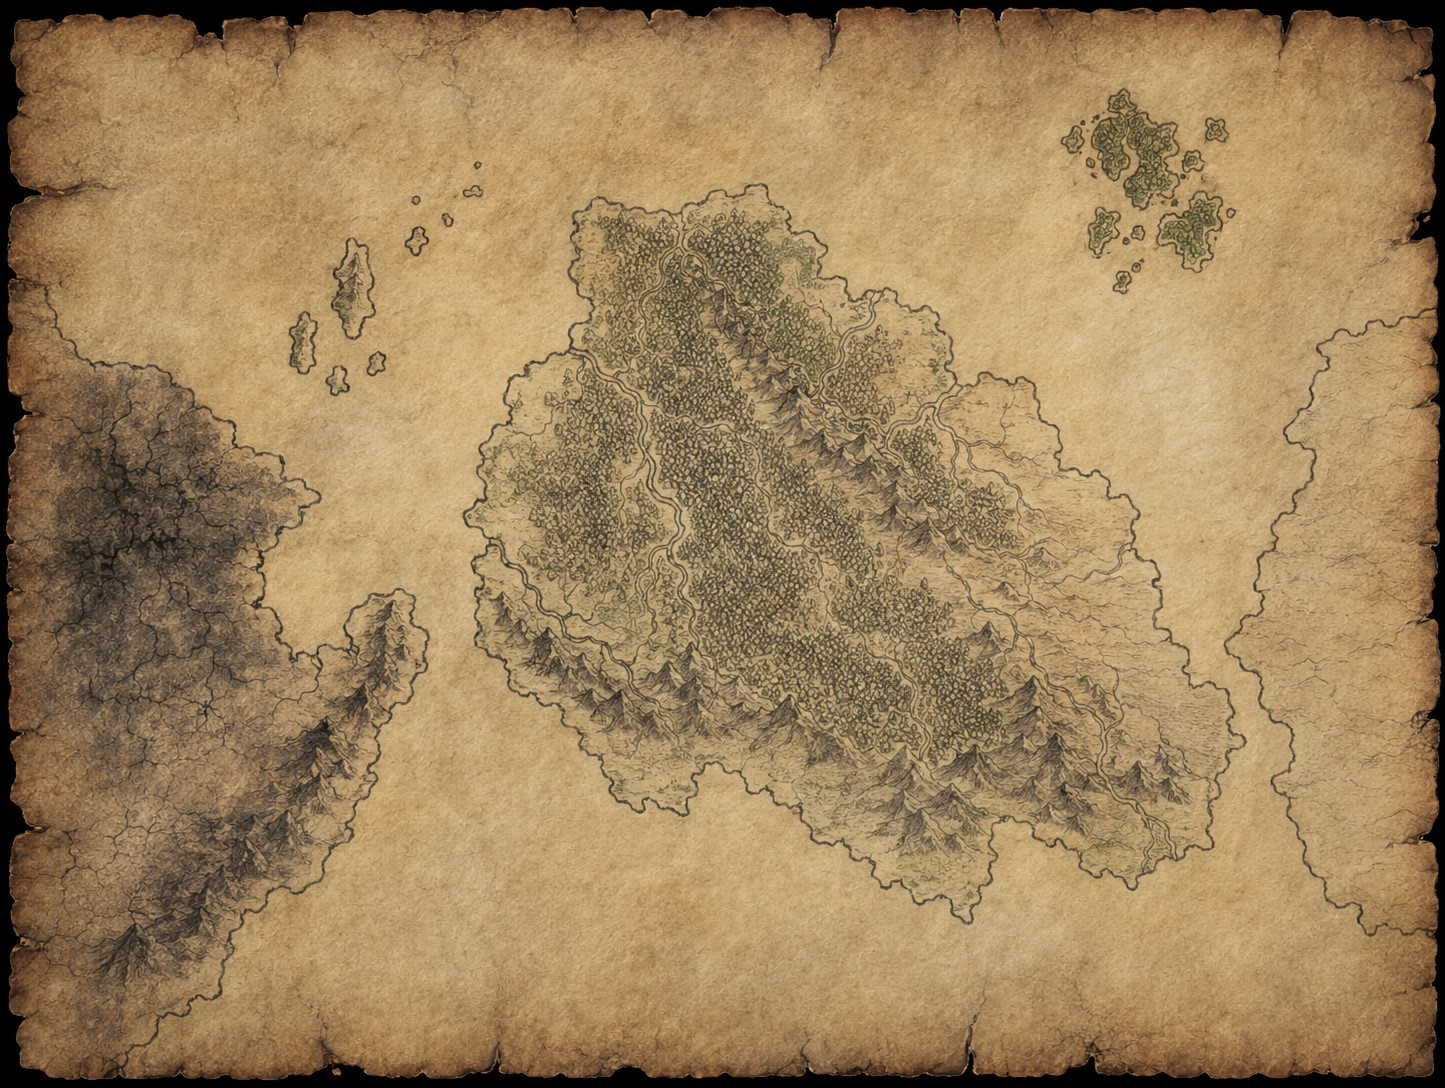
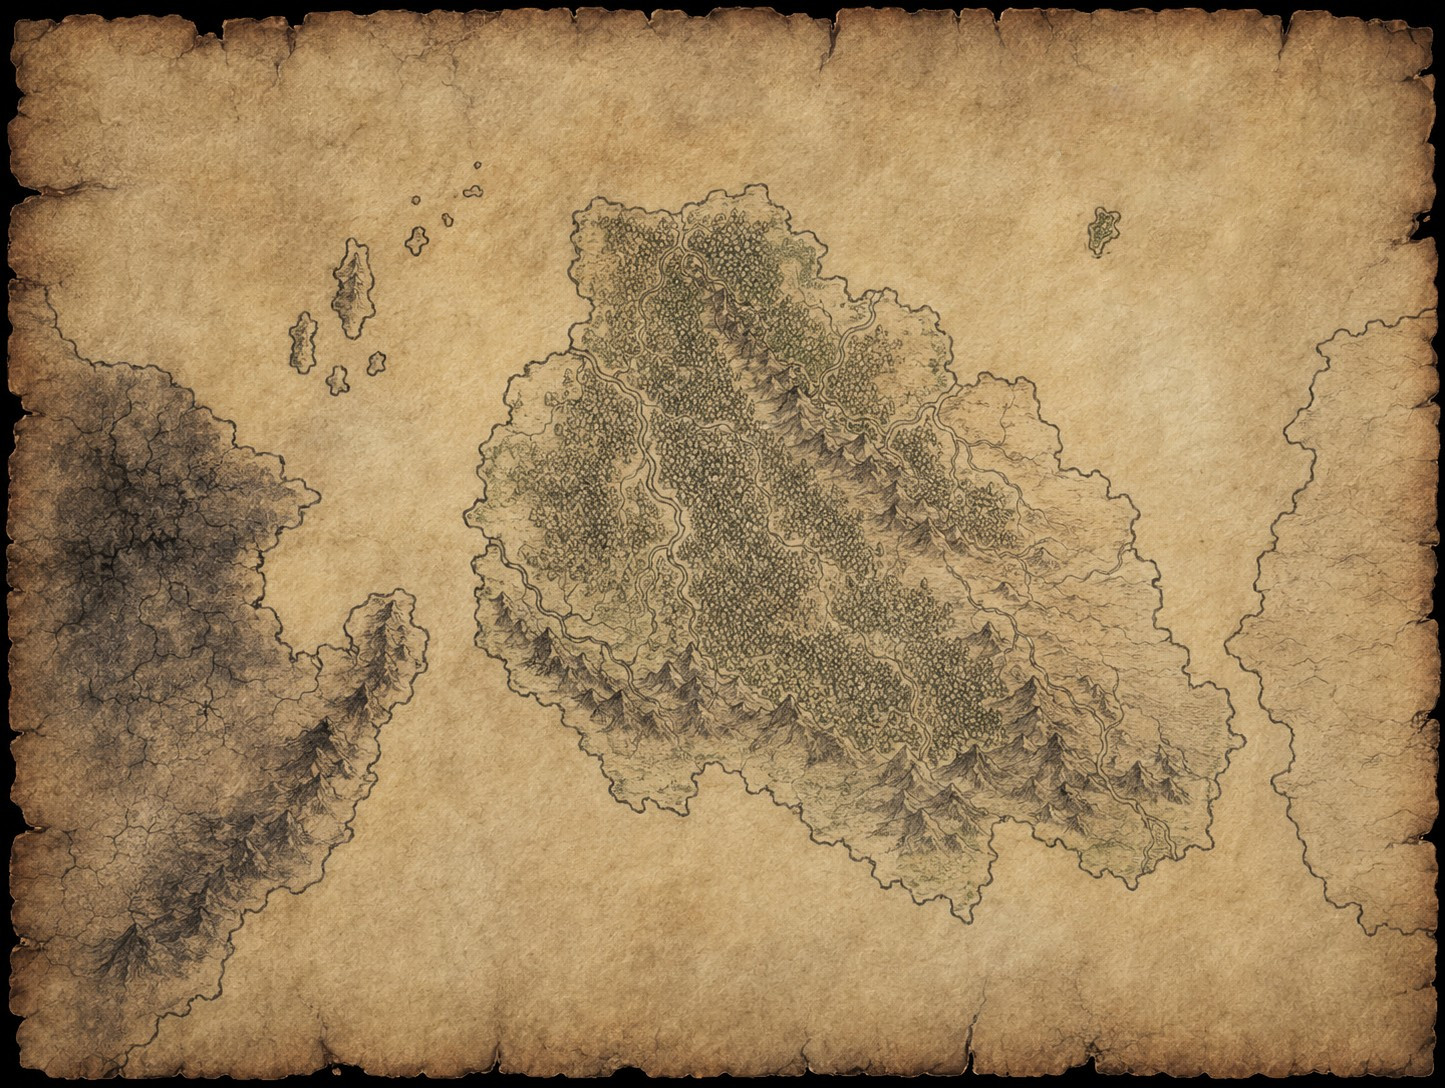
Add lore files for Koten world: introduction and races descriptions
- Created 'koten.md' to introduce the world of Koten, detailing its geography, languages, and mysteries.
- Created 'razas.md' to describe the various intelligent races inhabiting Koten, including their cultures, lifespans, and societal structures.

Changed region(s): [[0.7163, 0.0625, 0.872, 0.25], [0.7474, 0.25, 0.7785, 0.2812]]

diff --git a/lore/razas.md b/lore/razas.md
@@ -1,0 +1,167 @@
+# Los habitantes de Koten
+
+razas.jpg
+
+Son muchas y muy variadas las formas de vida que habitan este mundo, entre las razas inteligentes encontramos tambien una gran diversidad, no solo en su forma fisica, si no en su cultura y vision del mundo.
+
+## Ujom
+
+Esta raza que recibe diversos nombres en diversas lenguas es sin lugar a dudas la mas extendida y abundante del mundo.
+
+Viven en promedio /50 ani/ a los /10 ani/ alcanzan la mayoria de edad y a los /35 ani/ comienza su declive hacia la vejez.
+
+No son especialmente fuertes pero se caracterizan por su capacidad de adaptarse y sociabilidad, se han ganado un lugar dentro de las sociedades de todas las demas razas, mezclandose con sus culturas.
+
+Presentan una gran diversidad fisica con muchos colores de piel, cabello y ojos, suelen medir entre /9 mash/ y /11 mash/
+
+Se desempeñan muy bien en casi cualquier profesion pero destacan especialmente como cazadores, campesinos, pastores, escribas y en todas las formas de arte. tienen una gran capacidad de aprender y disposicion para el trabajo.
+
+Hay un pequeño grupo de radicales que intentan crear una cultura /ujóm/ unificada bajo la premisa de que ellos son los mas antiguos habitantes del mundo y tienen derecho a gobernarlo.
+
+## Perim
+
+Casi tan abundantes como los /ujóm/, los /perím/ suelen habitar cerca de las costas o en las riberas de los rios, han desarrollado su cultura al rededor de la navegacion, la pesca y la fiesta.
+
+Suelen vivir hasta los /70 ani/ comenzando su vida adulta a los /15 ani/ y empezando su vejez a los /55 ani/
+
+Presentan diversos colores de piel, con una marcada tendencia a los colores oscuros, cabello y ojos abarcan una amplia gama de colores. saben moverse sin hacer ruido y pasar desapercibidos, son de pequeña estatura, los mas altos no superan los /6 mash/
+
+Gustan de vivir una vida tranquila, de poco trabajo y mucha fiesta, destacan como pescadores, navegantes, carniceros y taberneros y por su flexible sentido de la moral tambien como piratas, ladrones, asesinos y contrabandistas.
+
+Por sus propios principios jamas se dedicarian a ser esclavistas. Hay trabajos en los que no se les suele ver pues los consideran demasiado laboriosos o inconvenientes: forjador, Ingeniero, escriba, pastor, hechicero o soldado.
+
+Acogen en sus poblados a gente de todas las razas, es con los /ujóm/ con los que mas suelen convivir o con los /denjos/ aunque estos ultimos no suelen quedarse por mucho tiempo, tienen muy buenas relaciones comerciales con los /nerum/ y los /alish/ que incluso algunos se han ido a vivir con ellos a las islas /tapigá/
+
+Viven en tribus matriarcales, son famosos por los brevajes alcoholicos que preparan, especialmente por el ron, valoran por encima de cualquier cosa la libertad y el matrimonio, su pena maxima es el destierro en un bote sin remos en el /topósme/ el mar que se extiende en los confines oeste del mundo.
+
+tienen un amplio panteon de dioses, donde incluso entran los dioses de otras culturas, cada tribu tiene su propio patrono y sus propios rituales, aun asi tienen una diosa principal /Fik/ la diosa del mar, que esta casada con /Kog/ El dios de la tierra, y de cuya union nacen todos los seres vivientes.
+
+creen que al morir van a reunirse con /Fik/ y /Kog/ y sus rituales funerarios suelen atar con rocas ceremoniales los cuerpos y enviarlos a las profundidades del mar o si no es posible enterrados en fosas. A sus muertos los recuerdan mediante canciones y en festivales bastante alegres.
+
+hablan en /lapág/ principalmente pero llegan a dominar diversas lenguas en sus viajes
+
+## Nerum
+
+Menos numerosos que los /perim/ pero todavia muy abundantes, esta raza vive principalmente dentro de las montañas, donde construyen ruidosas ciudades, intrincados sistemas de tuneles y profundas minas.
+
+Viven hasta los /80 ani/ desde los /10 ani/ ya comienzan a trabajar, generalmente en las minas y aunque a los /70 ani/ comienza su vejes, trabajan practicamente hasta el ultimo de sus dias.
+
+Son bajos de estatura, una de las razas mas pequeñas del mundo, son robustos, de piernas y brazos cortos y gruesos, cabeza ancha y cuello corto. su piel es dura y resistente de color claro y vello corporal y facial abundante, tanto en hombres como en las mujeres.
+
+Valoran la tecnica por encima de la magia, lo que los ha llevado a ser grandes ingenieros y alquimistas, creadores de sorprendentes maquinas, tambien son grandes forjadores y mineros, excavan profundas minas y exploran ruinas subterraneas de donde consiguen muchos artilugios magicos que los han llevado a ser los mas grandes comerciantes de articulos magicos del mundo.
+
+Aunque tienen sacerdotes, estos son muy pocos, y hechiceros /nerum/ es practicamente imposible encontrar ya que consideran la magia una fuerza maligna. Como no suelen vivir en el exterior no suelen fungir como leñadores, campesinos ni navegantes y su aprecio por el trabajo duro y la riqueza los lleva a ser muy respetuosos del trabajo remunerado, por lo que no tratan con esclavos ni esclavistas, y muy respetuosos con la propiedad por lo que no encontraremos a ningun ladron entre ellos, es ese mismo valor del trabajo el que les ha llevado a no dedicar mucho tiempo ni valor al arte.
+
+Aunque comercian mucho con los /alish/, la obsesion generalizada de estos con la magia les causa cierto recelo, de resto se la llevan bastante bien con la mayoria de las razas, aunque casi ninguno quiera aceptar vivir con ellos, pues la vida bajo tierra no es para todos.
+
+Hablan principalmente /nigelh/. Su sociedad esta regida por un consejo formado por los dirigentes de los diversos gremios laborales. Al servicio de este consejo esta la casta sacerdotal, quienes entre otras funciones custodian los secretos de su cultura y se encarga de la "purificacion" de las ruinas subterraneas que encuentran para poder extraer los artilugios magicos con seguridad.
+
+Son practicamente ateos en el sentido de que no creen en una figura superior o en personificaciones que puedan calificar como "dioses", saben que hay fuerzas sobrenaturales que rigen el mundo, pero es algo que corresponde unicamente a los sacerdotes, cada uno tiene su funcion en la sociedad y ellos no tienen por que meterse en los asuntos de los demas.
+No creen en vida despues de la muerte ni en ninguna trascendencia mas alla de hacerse un nombre y atesorar una gran fortuna, valoran la vida familiar, la amistad y la lealtad.
+A sus muertos los entierran en camaras especiales donde son devorados por gusanos y continuar asi el ciclo de la vida.
+
+## Alish
+
+Mucho menos abundante que otros grupos, divididos en dos etnias particulares, habitan principalmente en los bosques, y se concentran la gran mayoria en el bosque que rodea al rio grande /pobijat/ al que ellos llaman en su propia lengua /kekobef/.
+
+Llegan a vivir en promedio hasta los /210 ani/, aunque completan su desarrollo fisico a la edad de /10 ani/ se les considera inmaduros hasta los /30 ani/ edad a la que pueden aspirar a las pruebas de emancipacion, un festival que se celebra cada año y en donde pueden tratar de demostrar su valia como adultos. A los /150 ani/ comienza su vejez que mas que un declive fisico corresponde un cambio social.
+
+son muy altos, llegando a superar los /13 mash/ presentan principalmente dos grupos etnicos que rara vez se juntan, los /setach/ hijos del sol, de piel blanca, cabellos rubios y ojos verdes, y los /kutach/ hijos de la luna, de piel oscura, cabellos blancos y ojos azules. Ambos grupos presentan facciones delicadas y androginas tanto hombres como mujeres, tambien tienen orejas largas y puntiagudas.
+
+Su sociedad es bastante estricta, valoran muchisimo la cultura y el conocimiento, aborrecen la muerte y es para ellos permitida solo como ultimo recurso, por lo que tienen prohibido cazar, pescar o ser carniceros, robar, traficar, esclavizar y asesinar, ademas oficios como taberneros, alquimistas, forjadores o pastores los consideran sucios y prefieren dejarlos para otras razas.
+
+Son grandes conocedores de las artes místicas, consideran el conocimiento un regalo de los dioses y tratan de adquirirlo y preservarlo con mucha perseverancia, grandes hechiceros y escribas. Sienten gran respeto y amor por los bosques, que les provee todo lo que necesitan, construyen mucho con madera, son grandes leñadores y artesanos.
+
+Suelen ser bastante amables con todas las razas, excepto con los /nugot/ a los que consideran portadores de muerte, ademas ven con recelo a los /denjom/ pues su estilo de vida despreocupado y de dudosa moralidad va en contra de lo que ellos consideran correcto, aun asi no le dan demasiada relevancia ya que tienen una filosofia de no enmiscuirse en asuntos ajenos.
+
+Hablan el /dekáyun/ lengua que sienten propia, ademas del /idóling/ la lengua que llaman de los ancestros o de los sabios, que es la lengua con la que funciona toda la magia. Su gobierno esta encabezado por dos reyes, uno para cada etnia, quien ademas de ser una figura publica participa en la toma de desiciones mas importantes, luego estan los ministros encargados de los oficios, los gobernadores que mandan sobre cada territorio y los sacerdotes encargados de la religion y la cultura.
+
+Tienen poca fertilidad, lo que los ha llevado a ser una sociedad muy promiscua, el matrimonio solo aparece una vez hay un embarazo y dura hasta la emancipacion del hijo.
+
+Tienen tres dioses /set/, /kut/ y /yun/ los señores del sol, la luna y la tierra respectivamente, ellos se sienten creados directamente por el sol y la luna y a las demas creaturas creadas por el dios de la tierra, hay una cuarta entidad en su panteon pero para ellos es practicamente inombrable /ten/ el señor del caos y la muerte. Tienen muchos rituales, sienten que tienen influencia directa sobre la naturaleza y si no hacen sus rituales se alterará el balance natural Son estrictamente vegetarianos de los animales solo usan aquello que ofrecen libremente como su lana o su fuerza de trabajo. a la muerte de sus animales los entierran con gran respeto para que se reunan con su señor /yun/ mientras que a los otros /alish/ los queman para que sean purificados y asciendan a reunirse con sus señores en el cielo.
+
+## Drayim
+
+tan abundantes como los /alish/, suelen vivir en desiertos y llanuras, pero pueden adaptarse a vivir en cualquier clima mientras sea facil mantener un fuego encendido, evitan lugares demasiado humedos como bosques y pantanos y encuentran la nieve demasiado molesta.
+
+[Gráfico de línea de vida] Viven aproximadamente /120 ani/ y conservan su fuerza hasta el ultimo de sus dias, no alcanzan la madurez hasta su primera muda de escamas, que ocurre aproximadamente a los /20 ani/, hasta ese momento suelen ser muy fragiles. cada /20 ani/ en promedio, deben mudar de escamas y es un proceso que buscan pasar en soledad, entre mas viejos es menos frecuente.
+
+Su principal caracteristica fisica es su cuerpo escamado, que puede presentar una gran variedad de colores, los ojos tienen la pupila alargada verticalmente y la esclerotica amarilla. Producen dentro de ellos un aceite combustible, a veces acido, que pueden llegar a escupir, en ocaciones involuntariamente.
+
+Nunca se ha llegado a ver un drachim navegante o pirata, y posiblemente nadie quiera subirse a un barco con uno, no suelen ejercer la hechiceria, no destacan como artistas, ni se dedican a ser escribas. Es muy raro tambien llegar a ver un /drayím/ que se dedique a ser ladron. En cambio destacan como forjadores alquimistas e ingenieros, son grandes cazadores y carniceros, sus preparaciones con carne son famosas por todo el mundo, tambien son buenos soldados y artesanos.
+
+Se la llevan muy bien con casi todas las razas, dan la bienvenida en su cultura a toda la gente, pero nadie se adapta a las condiciones extremas de su estilo de vida.
+
+Hablan el /gox'jix/ y lo escriben sobre placas de metal o tablillas de arcilla, su gobierno esta formado por un consejo de ancianos al que llaman la camara de los 12 reyes. su ley la llaman la ley del fuego, les importa poco la ley de otras culturas, y la pena mas comun de pagar por los crimenes en su sociedad es la esclavitud.
+Viven de forma seminomada, se instalan por temporadas en una zona y cuando han agotado los recursos se desplazan, suelen construir sus tiendas con estructuras metalicas que cubren con pieles o telas.
+
+En su religion adoran el fuego, el sol es para ellos el juego primordial. Cada ser lleva en su interior un juego que es lo que le da la vida, alimentado por su aceite interior, las obras buenas y malas afectan la calidad de su aceite y por tanto la fuerza de su fuego interno, al morir pasan a otro plano donde deberan purificar su aceite antes de arder eternamente en el cielo junto al sol. Cada /drayim/ lleva una lampara que refleja el estado de su fuego interno y siempre esta encendida, se fian mucho de la adivinacion, especialmente mirando el fuego. Al morir queman los cuerpos, signo de purificacion y un pequeño puñado de cenizas son conservados por su familia en un baul.
+
+## Elemir
+
+Son muy pocos en el mundo, casi todos viven en la isla de /nayedet/ cuya ubicacion guardan en secreto con recelo, se llaman a si mismos el pueblo de los celestiales y creen que sus ancestros vinieron del cielo.
+
+[Gráfico de línea de vida] Llegan a vivir hasta los /100 ani/ a los /20 ani/ alcanzan la madurez, momento en el que terminan su formacion, y solo se les considera adultos y miembros de la sociedad si la han terminado su vejez llega a los /90 ani/ etapa de su vida que buscan pasar en su isla, pues morir lejos de su tierra es para ellos una gran tragedia.
+
+Miden al rededor de /11 mash/ carecen completamente de cabello y vello corporal, son de piel blanca y tienen el iris gris claro o completamente blanco, las mujeres tienen facciones mas delicadas, cinturas estrechas, caderas anchas y senos. Casi todos los individuos tienen musculatura marcada y bien definida.
+
+Son la cultura que mas prohibiciones presenta, su religion esta completamente integrada a su sociedad, tienen prohibido robar, matar, traficar usar la magia o la alquimia, son estrictamente veganos, no cazan, no pescan, no se embriagan ni propician que otros lo hagan, no ejercen el pastoreo ni la mineria.
+Pero son excelentes sembrando y cuidando la tierra, todos se forman en artes marciales, aunque son pacifistas, pero dominan tecnicas no letales. son grandes escribas, tienen gigantescos registros y viajan por el mundo recolectando conocimiento, llevan incluso sus historias y saber tatuados sobre el cuerpo, aunque solo la mitad izquierda. Son grandes forjadores y destacan muchisimo en las artes, a las que consideran un regalo de sus dioses.
+A pesar de su repudio a la magia, sus sacerdotes son grandes conocedores de esta, en su sociedad son tratados con mucho respeto, pues los ven como quienes se sacrifican, contaminando su alma con la magia a cambio de servir a la sociedad.
+
+Respetan mucho a todas las razas y se interesan por comprender y estudiar su cultura, se adaptan a sus costumbres mientras no interfieran con su religion y llegan a convivir con ellos por muchos /ani/, aun asi no permiten a ningun extranjero acercarse a su isla. A los animales los tratan con igual respeto que a las otras razas y son los unicos seres, a parte de si mismos, que permiten en la isla, les permiten vivir libremente y solo usan los servicios que pueden prestar por su propia naturaleza como control de plagas, procesamiento de residuos o por motivos esteticos y artisticos, al morir a estos los entierran con respeto, para que continuen el ciclo de la vida.
+
+Son una teocracia, el poder recae sobre el Supremo Sacerdote y la casta sacerdotal, su sede de gobierno esta en la isla, es un basto complejo amurallado con una alta torre de metal en el centro, lugar que consideran sagrado, pues es para ellos el sitio donde llegaran los celestiales cuando vuelvan para llevarlos al cielo.
+
+No usan dinero entre ellos, tienen arcas comunes y solo lo usan para comerciar con otras razas, todo lo que tienen lo ponen en comun y tratan al maximo de ayudar a un hermano cuando lo necesita, no hacerlo seria un grave pecado.
+Vivir una vida correcta segun sus leyes es algo supremamente importante, creen que su muerte, a diferencia de las de las demas creaturas es solo un sueño, del que despertaran al regreso de los celestiales, pero transgredir su ley les puede llevar a perder su condicion de celestial, por eso es tan importante para ellos morir en su isla, porque alli estan los cuartos donde sus cuerpos reposan incorruptibles hasta la llegada de los celestiales.
+
+A los herejes los condenan al destierro en las tierras malditas /chóseg/ donde su destino sera peor que la muerte.
+
+## Kalchad
+
+Llamados gigantes o señores del bosque, son muy pocos en el mundo y suelen vivir aislados, nadie sabe de donde vienen ni que son exactamente, ni siquiera ellos mismos, cada cultura tiene un mito diferente sobre ellos. Suelen vivir en lugares de dificil acceso y alejados de las demas razas, como riscos, altas montañas, densos bosques, parajes desolados pantanos e incluso se les ha visto por las tierras congeladas del oeste. 
+
+No se sabe cuanto viven, se cree que son inmortales, nunca se les ha visto infantes, parece ser que no se pueden reproducir y por su escases, sumado al hecho de que suelen vivir aislados, incluso muchos consideran que no existen.
+
+Su apariencia fisica es muy variada, son similares a los [Símbolos] /ujom/ pero mucho mas grandes, en promedio [Símbolos] /3 pash/ , tienen una forma animal en la cual pueden transformarse.
+
+Estan en gran sintonia con la naturaleza, han aprendido a leer los ciclos de las plantas y el comportamiento de los animales, ejercen para ellos mismos las tareas de supervivencia que han aprendido de los animales: cazar, pescar, pastorear, cultivar, minar, etc...
+
+Son totalmente desapegados de las posesiones terrenales y del dinero, no comercian y no entienden el afan de las demas razas por conseguir dinero o bienes, cuando la naturaleza les da todo lo que necesitan, por esto no ejercen ningun "oficio" ni tienen relaciones comerciales.
+
+No usan la magia en ninguna forma, tienen la certeza de que daña sus cuerpos y rompe su conexion con la naturaleza.
+
+A las demas razas las evitan, los llaman fugaces por la corta duracion de sus vidas, solo se relacionan con los que ellos llaman eternos, como los [Símbolos] /nekles/ y los bosques con los que algunos se llegan a comunicar.
+
+No tienen ninguna forma de gobierno ya que viven en soledad, la unica regla que parecen tener es de no matar a un eterno, la vida de los fugaces les da igual, pues su escencia es que viven para morir, pero matar a un eterno es imperdonable.
+
+## Denjom
+
+No se sabe cuantos son en el mundo, estan en constante movimiento, son clanes nomadas que recoren los pueblos del mundo, tienen un unico lugar fisico, una montaña sagrada, pero solo ellos pueden entrar.
+
+[Gráfico de línea de vida] Viven generalmente hasta los [Símbolos] /70 ani/, desde los [Símbolos] /10 ani/ ya se les considera adultos y hasta los [Símbolos] /60 ani/ conservan toda su fuerza y vitalidad.
+
+fisicamente son muy parecidos a los [Símbolos] /perim/ aunque su piel suele ser mayoritariamente de tonos rojizos, violaceos y azulados. Su principal caracteristica es que les crecen cuernos, de diversas formas y tamaños.
+
+Son muy festivos, les encanta la musica, la danza y el teatro, sus caravanas son bienvenidas en todas partes. Suelen ser grandes bebedores y llevan los mejores lugares alli donde van.
+Se desempeñan bien en trabajos estacionales, son grandes contrabandistas y su moral flexible sumado a que saben moverse sigilosamente les ha dado la fama de ser excelentes ladrones y asesinos.
+
+Sus sacerdotes son grandes conocedores de las artes misticas y llegan a realizar hechizos y milagros increibles. Juegan un papel muy importante en su sociedad, son muy supersticiosos.
+
+Se la llevan muy bien con las demas razas, en especial con los [Símbolos] /perim/ y con los [Símbolos] /ujom/ a los que llegan a aceptar en sus clanes aunque no mezclarse, pues consideran el mestizaje una abominacion.
+
+cada clan tiene un jefe de familia y un sacerdote, este ultimo designado directamente por el sumo sacerdote desde la montaña, entre los dos toman todas las desiciones del clan, hablan el [Símbolos] /lapag/. Suelen llevar una vida nocturna, hacen constantemente fiestas y celebraciones.
+
+Todo [Símbolos] /denjom/ esta obligado a ir al menos una vez en la vida a la montaña sagrada donde debe pagar un tributo o hacer un tiempo de servicio, en esta misma montaña se forman los futuros sacerdotes. Son monogamos y ven el matrimonio como una union sagrada, lo celebran con grandes fiestas. Es tradicion que el segundo hijo de cada familia se haga sacerdote.
+
+Adoran a los gatos, saben que entre ellos hay [Símbolos] /nekles/ a los que consideran dioses sobre la tierra, su ley contempla cuidarlos, alimentarlos y recibirlos como huespedes en sus caravanas, cuando un gato muere lo embalsaman con sumo cuidado y lo llevan hasta la montaña sagrada.
+
+Creer en la reencarnacion, tienen un complejo ciclo de reencarnaciones que termina con la reencarnacion como gato, luego de la cual pasan al cielo de los gatos. Cuando un [Símbolos] /denjom/ muere, su cuerpo es quemado, excepto si se trata de un sacerdote, al cual le dan un trato similar al de los gatos.
+
+ciclo_reencarnacion.jpg
+
+Una vida interesante y respetuosa de sus leyes les garantiza "avanzar" en el ciclo de reencarnaciones mientras que incumplir con su deber o llevar una vida aburrida los condena a "retroceder" en el ciclo de reencarnaciones.
+
+El comportamiento de los gatos es una inspiracion para ellos y tratan de imitarlos, por eso llevan una vida nocturna, despreocupada y juguetona.
+